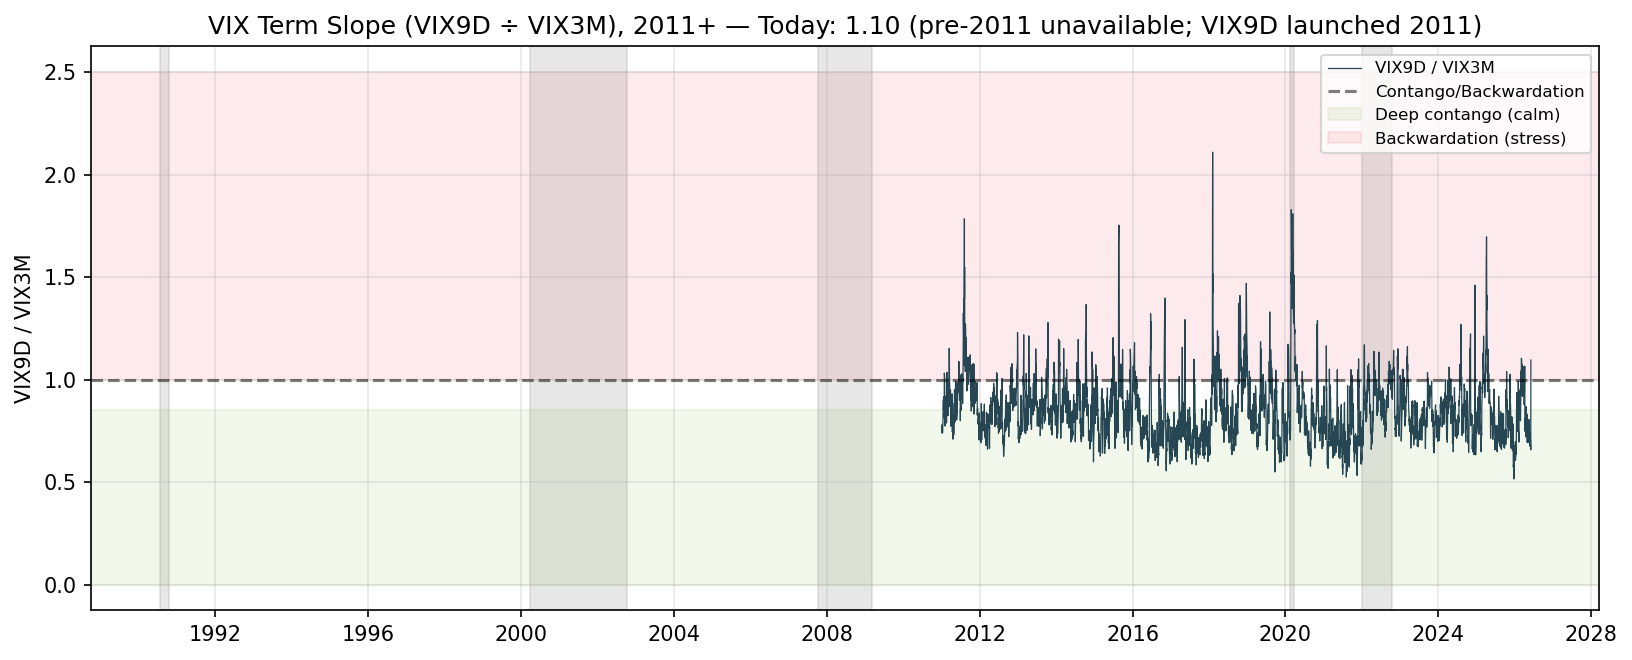
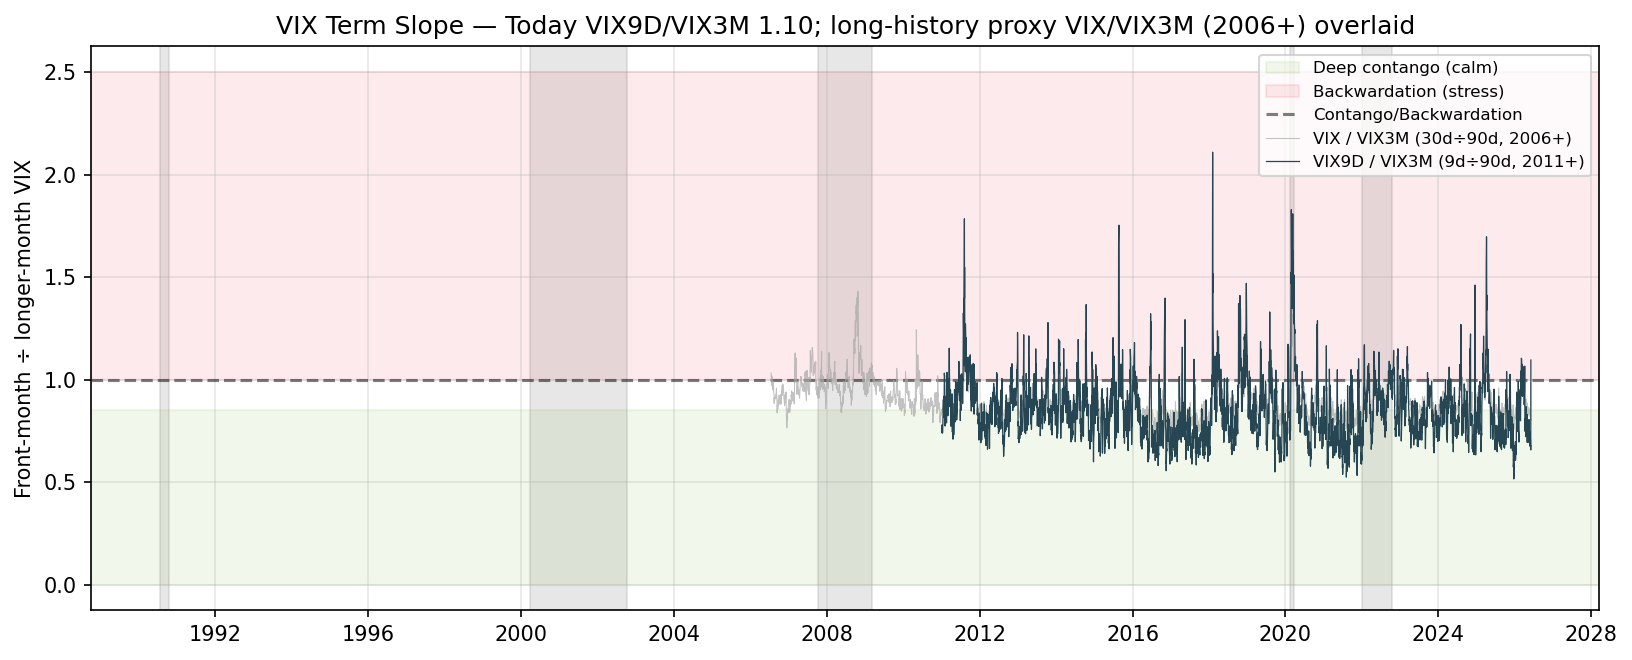
feat(market-complacency): extend VIX term slope back to 2006 via VIX/VIX3M proxy
User: "no historical data?" — re VIX Term Slope (showing only 2011+) and
MOVE (showing only 2002+).

VIX Term Slope (Figure 8): EXTENDED
- VIX9D didn't exist before 2011 (CBOE didn't publish a 9-day VIX)
- But VIX/VIX3M (30d ÷ 90d) ratio captures the same front-month-vs-
  longer-month signal and goes back to 2006-07-17 (when CBOE started
  publishing VIX3M / VXV)
- Chart now overlays BOTH: VIX/VIX3M as light grey long-history line,
  VIX9D/VIX3M as dark teal canonical short-term metric
- GFC peak (~1.4 backwardation in late 2008) now visible
- 2018 Volmageddon and 2020 COVID spikes preserved
- Today's VIX9D/VIX3M (1.10) still shown as the headline read

MOVE Index (Figure 9): HARD LIMIT
- MOVE created in 1988 by Merrill Lynch
- Yahoo Finance starts 2002 — earliest free data
- Pre-2002 exists only on Bloomberg/ICE direct (paywalled)
- WebSearch on Investing.com / Macromicro / TradingView didn't surface
  a free pre-2002 source
- Updated caption to make the data-limit explicit: "MOVE created 1988
  but free pre-2002 history not available — Yahoo's 2002 start is the
  earliest free data; pre-2002 exists only on Bloomberg/ICE direct
  (paywalled). GFC peak (~265 in Oct 2008) and 2022 Fed tightening
  (~180) are the two visible regime extremes."

The MOVE chart was already showing the full Yahoo history (2002+) with
bear-market shading — both the GFC and 2022 are visible. There's no
free data to extend it further.

diff --git a/.claude/skills/market-complacency/scripts/build_dashboard.py b/.claude/skills/market-complacency/scripts/build_dashboard.py
@@ -1407,18 +1407,40 @@ def _make_charts(as_of, composite, tier, composite_hist, series, table, prec_df,
         plt.savefig(CHARTS / f"market_complacency_{as_of}_vix_vvix.png", dpi=150, bbox_inches="tight")
         plt.close()
 
-    # Chart 5: VIX term slope — full history from when VIX9D started (2011).
-    # Pre-2011 doesn't exist because CBOE didn't publish a 9-day VIX before then.
+    # Chart 5: VIX term slope — extended back via VIX/VIX3M (2006+) overlaid
+    # with VIX9D/VIX3M (2011+). The VIX9D-based ratio is the canonical short-
+    # term-fear gauge but VIX9D didn't exist before 2011. VIX/VIX3M (30-day ÷
+    # 90-day) is the same kind of signal — front-month vs longer-month implied
+    # vol — and extends back to 2006-07-17 when CBOE started publishing VIX3M
+    # (originally VXV). Plotting both gives long history + the canonical
+    # short-term metric on the same axes.
     if not series["vix_slope"].empty:
-        slope_full = series["vix_slope"]
+        slope_short = series["vix_slope"]   # VIX9D / VIX3M (2011+)
+        vix_full = series["vix"]
+        vix3m_full = fetch_yf("^VIX3M", "2005-01-01", pd.Timestamp(as_of).strftime("%Y-%m-%d"))
+        # Compute VIX / VIX3M ratio (2006+) for long history
+        slope_long = None
+        if not vix_full.empty and not vix3m_full.empty:
+            df = pd.concat([vix_full.rename("v"), vix3m_full.rename("v3")], axis=1).dropna()
+            slope_long = (df["v"] / df["v3"]).rename("vix_over_vix3m")
+
         fig, ax = plt.subplots(figsize=(11, 4.5))
         _shade_bears(ax)
-        ax.plot(slope_full.index, slope_full.values, lw=0.6, color="#264653", label="VIX9D / VIX3M")
-        ax.axhline(1.0, ls="--", color="black", alpha=0.5, label="Contango/Backwardation")
+        # Bands first so the lines plot on top
+        max_y = max(2.5, slope_short.max() * 1.05 if not slope_short.empty else 2.5)
         ax.axhspan(0, 0.85, alpha=0.10, color="#7eb541", label="Deep contango (calm)")
-        ax.axhspan(1.0, max(2.5, slope_full.max() * 1.05), alpha=0.10, color="#e63946", label="Backwardation (stress)")
-        ax.set_ylabel("VIX9D / VIX3M")
-        ax.set_title(f"VIX Term Slope (VIX9D ÷ VIX3M), 2011+ — Today: {slope_full.iloc[-1]:.2f} (pre-2011 unavailable; VIX9D launched 2011)")
+        ax.axhspan(1.0, max_y, alpha=0.10, color="#e63946", label="Backwardation (stress)")
+        ax.axhline(1.0, ls="--", color="black", alpha=0.5, label="Contango/Backwardation")
+        if slope_long is not None and not slope_long.empty:
+            ax.plot(slope_long.index, slope_long.values, lw=0.5, color="#a8a8a8",
+                    alpha=0.7, label="VIX / VIX3M (30d÷90d, 2006+)")
+        ax.plot(slope_short.index, slope_short.values, lw=0.6, color="#264653",
+                label="VIX9D / VIX3M (9d÷90d, 2011+)")
+        ax.set_ylabel("Front-month ÷ longer-month VIX")
+        cur = float(slope_short.iloc[-1]) if not slope_short.empty else None
+        ax.set_title(
+            f"VIX Term Slope — Today VIX9D/VIX3M {cur:.2f}; long-history proxy VIX/VIX3M (2006+) overlaid"
+        )
         ax.grid(alpha=0.3); ax.legend(loc="upper right", fontsize=8)
         plt.tight_layout()
         plt.savefig(CHARTS / f"market_complacency_{as_of}_vix_slope.png", dpi=150, bbox_inches="tight")

diff --git a/reports/market-complacency/market_complacency_2026-06-07.md b/reports/market-complacency/market_complacency_2026-06-07.md
@@ -62,11 +62,11 @@ Indicator histories with bear-market shading and last-10y percentile reference l
 ![Figure 7: VIX & VVIX](../charts/market_complacency_2026-06-07_vix_vvix.png)
 *Sources: [CBOE VIX (1990+) via Yahoo Finance](https://finance.yahoo.com/quote/%5EVIX/) · [CBOE VVIX (2007+) via Yahoo Finance](https://finance.yahoo.com/quote/%5EVVIX/) · canonical reference: [CBOE VIX page](https://www.cboe.com/tradable_products/vix/).*
 
-![Figure 8: VIX Term Slope (VIX9D / VIX3M)](../charts/market_complacency_2026-06-07_vix_slope.png)
-*Sources: [CBOE VIX9D (2011+)](https://finance.yahoo.com/quote/%5EVIX9D/) · [CBOE VIX3M (2008+)](https://finance.yahoo.com/quote/%5EVIX3M/). Ratio < 1 = contango (calm); ≥ 1 = backwardation (front-month fear).*
+![Figure 8: VIX Term Slope (VIX9D/VIX3M + VIX/VIX3M long-history proxy)](../charts/market_complacency_2026-06-07_vix_slope.png)
+*Sources: [CBOE VIX9D (2011+)](https://finance.yahoo.com/quote/%5EVIX9D/) — canonical short-term metric · [CBOE VIX3M (2008+)](https://finance.yahoo.com/quote/%5EVIX3M/) · [CBOE VIX (1990+)](https://finance.yahoo.com/quote/%5EVIX/). Grey overlay = VIX/VIX3M (30d÷90d) ratio extending back to 2006 — same front-month-vs-longer-month signal, captures GFC peak (~1.4) and the 2008 backwardation episode. VIX9D-based ratio (dark line) is the canonical metric for current readings.*
 
 ![Figure 9: MOVE Index](../charts/market_complacency_2026-06-07_move.png)
-*Source: [ICE BofAML MOVE Index via Yahoo Finance (2002+)](https://finance.yahoo.com/quote/%5EMOVE/) — the rate-vol analog of VIX, measuring 1-month implied vol on US Treasuries.*
+*Source: [ICE BofAML MOVE Index via Yahoo Finance (2002+)](https://finance.yahoo.com/quote/%5EMOVE/) — the rate-vol analog of VIX, measuring 1-month implied vol on US Treasuries. **The MOVE index was created in 1988 by Merrill Lynch but free pre-2002 history is not available** — Yahoo's 2002 start is the earliest free data; pre-2002 exists only on Bloomberg/ICE direct (paywalled). GFC peak (~265 in Oct 2008) and 2022 Fed tightening (~180) are the two visible regime extremes.*
 
 ![Figure 10: Per-Indicator Complacency Bars](../charts/market_complacency_2026-06-07_indicators_bar.png)
 *Source: per-indicator 10-year rolling complacency percentile from `scripts/build_dashboard.py`. Inputs documented in the Data Used manifest below.*
